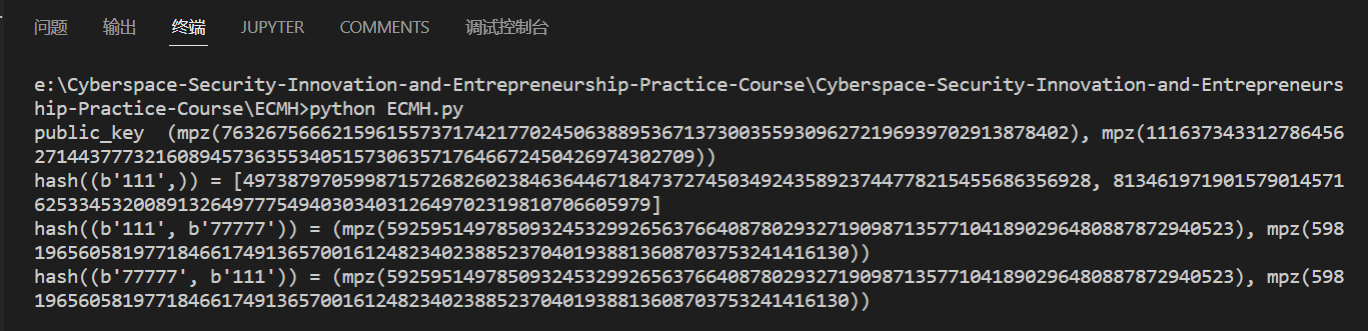
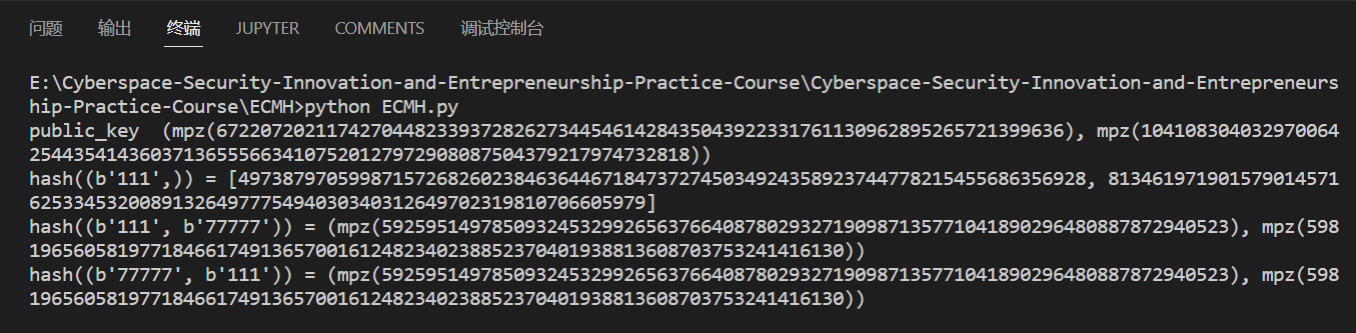
Update the ECMH code running image

Changed region(s): [[0.0, 0.2115, 0.9912, 0.9366], [0.0, 0.0604, 0.3097, 0.1511], [0.3407, 0.0604, 0.4027, 0.1208]]

diff --git a/ECMH/README.md b/ECMH/README.md
@@ -1,0 +1,23 @@
+# ECMH
+
+## Project
+ Implement the above ECMH scheme
+
+
+## 代码说明
+本项目使用Python实现
+实现ECMH方案：椭圆曲线哈希族
+ECMH整体思路是：先把集合里的元素映射成椭圆曲线上的点，然后利用椭圆曲线上的加法求解哈希值。
+
+为达到相同的安全性，ECMH算法需要的密钥长度远远小于哈希求和算法，因而ECMH相较哈希求和算法更为安全。
+
+
+
+## 运行指导
+- 需要安装gmssl库
+- 运行ECMH.py
+
+## 运行截图
+代码运行如图
+
+![代码运行截图](https://github.com/wzd12138/Cyberspace-Security-Innovation-and-Entrepreneurship-Practice-Course/blob/main/image/Deduce_pubkey/Deduce_pubkey.png)
